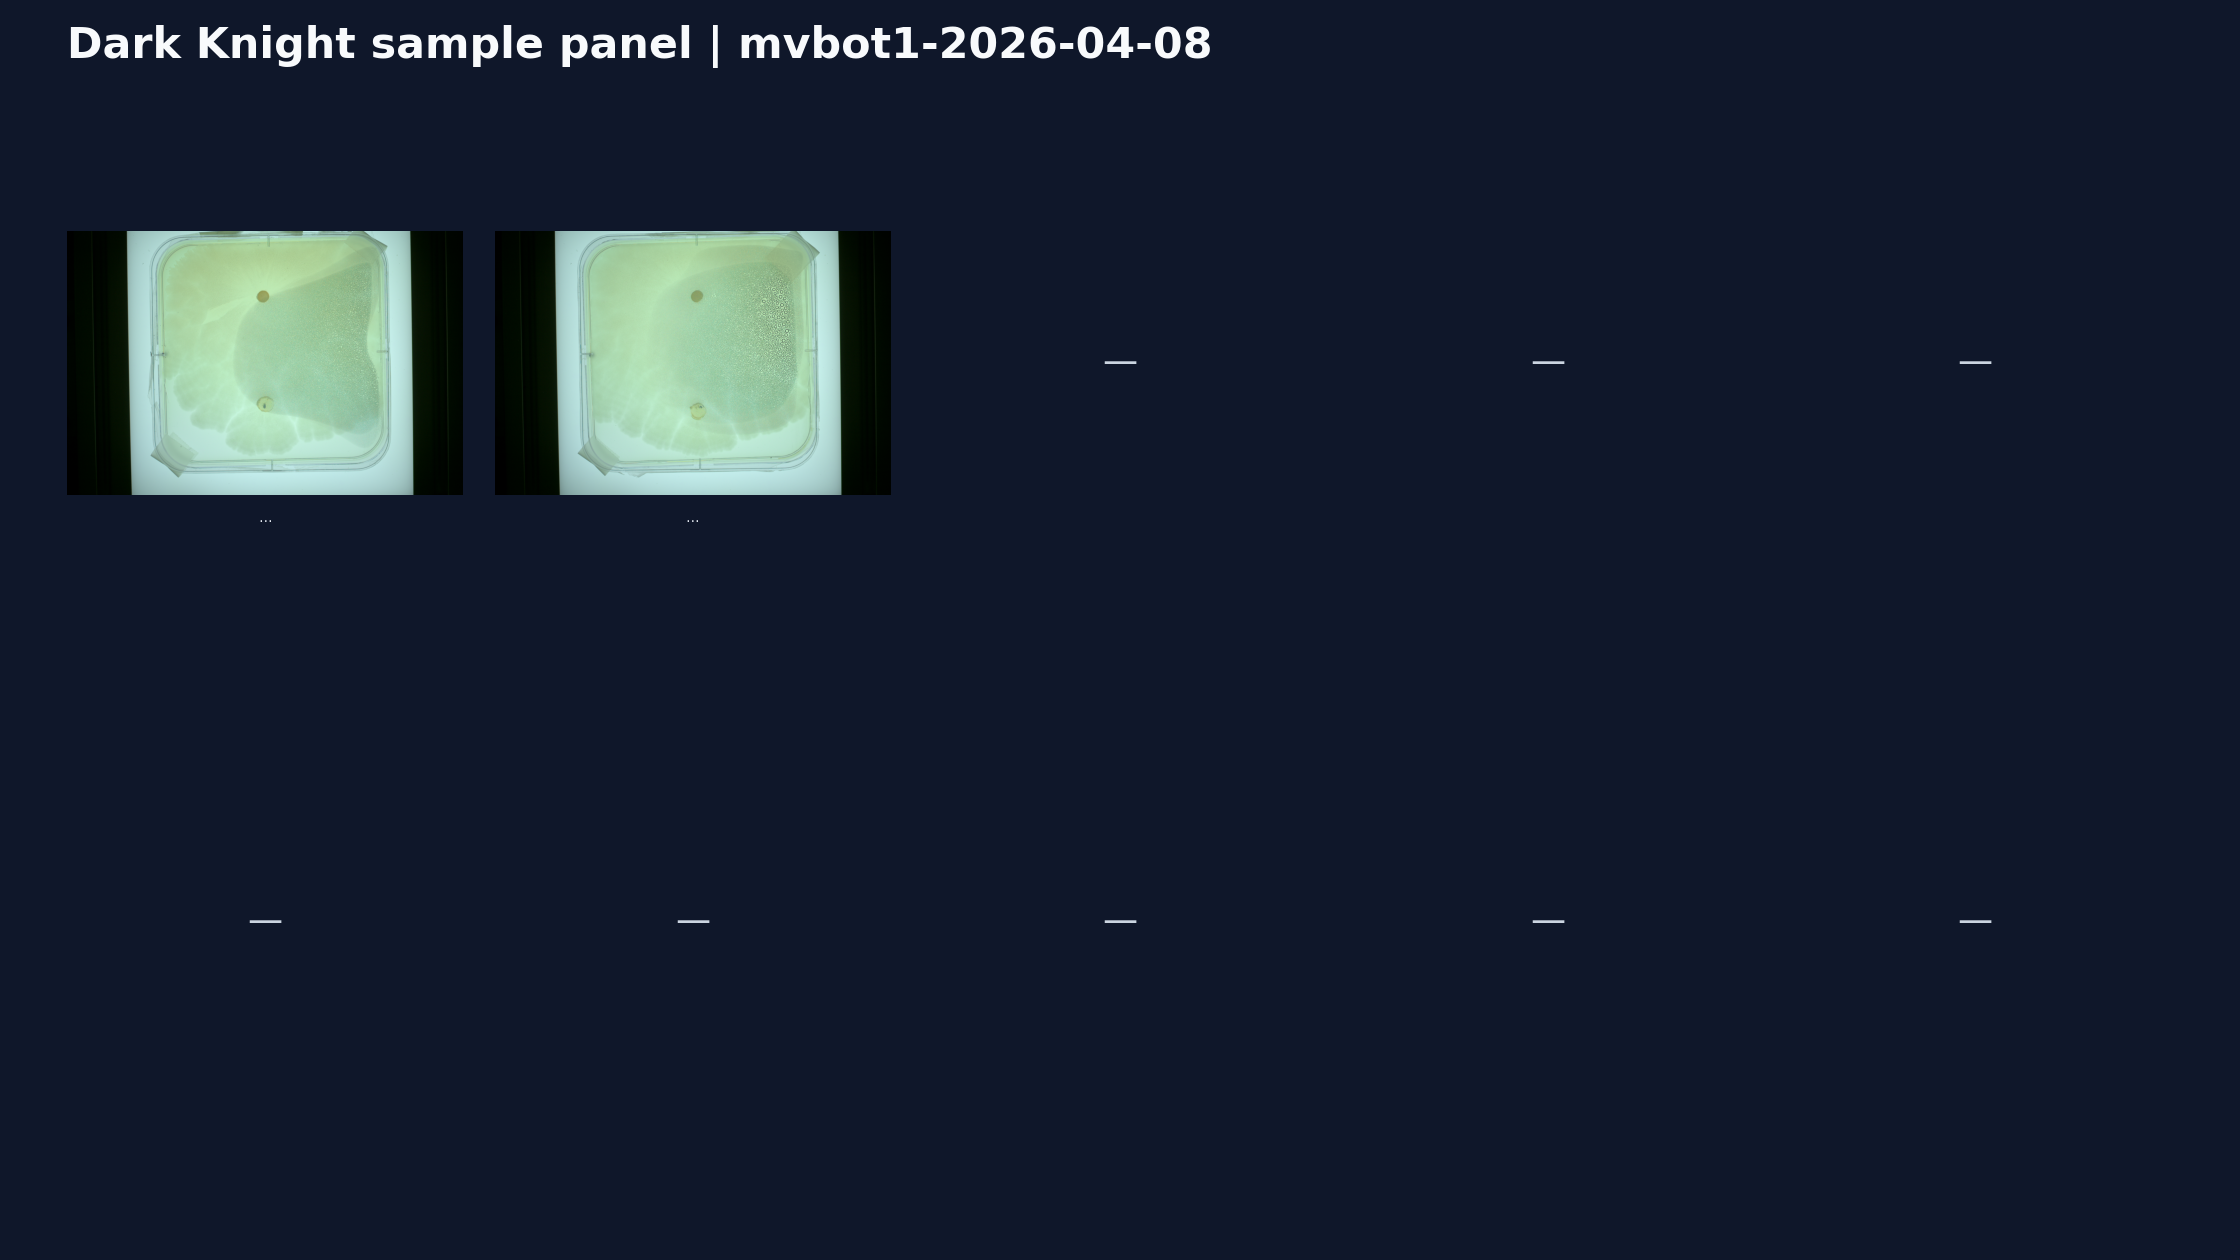
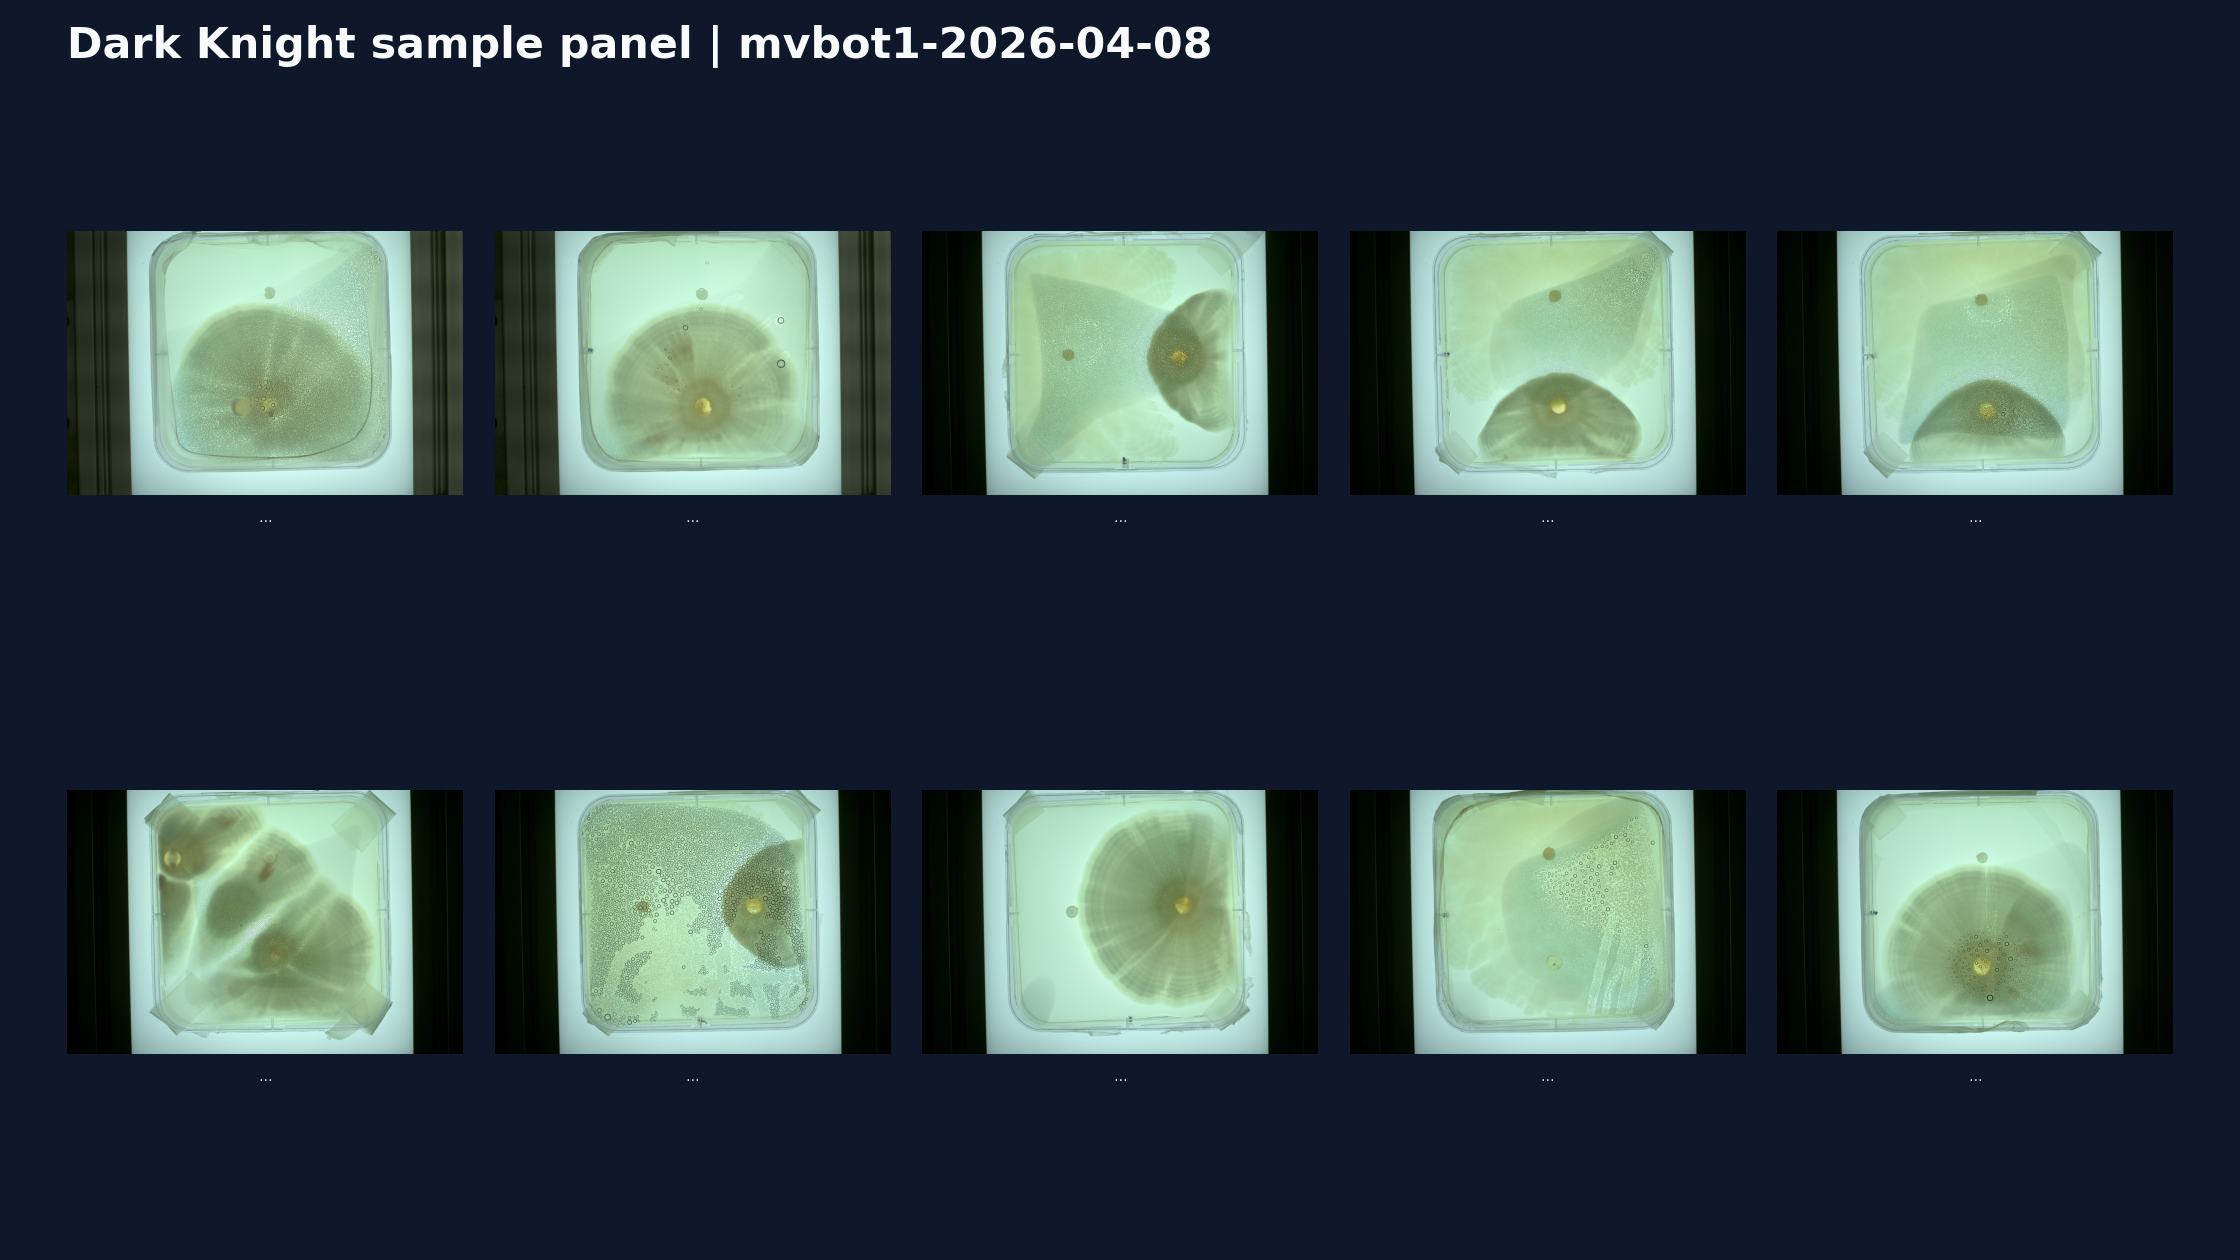
update summary

diff --git a/index.html b/index.html
@@ -165,7 +165,7 @@
                 <div>
                     <p class="eyebrow">Dark Knight Summary Page</p>
                     <h1>&#x1F987; Dark Knight Agent &#x1F50D;</h1>
-                    <p class="subtitle">Experiment: mvbot1.007<br />Updated: 2026-04-16 10:48:13 EDT</p>
+                    <p class="subtitle">Experiment: mvbot1.007<br />Updated: 2026-04-16 11:04:00 EDT</p>
                 </div>
                 <aside class="metrics-card">
                     <p class="metrics-title">Run Snapshot</p>
@@ -183,7 +183,7 @@
                 </aside>
             </div>
             <p class="section-title">&#x1F987; Agent Analysis</p>
-            <div class="analysis-box">I am the Dark Knight Agent, an autonomous scientific investigator tasked with extracting hidden biological signals from multimodal phenotyping data. The status file indicates that loop 3 has just completed, with plate 14 imaged and no further targets remaining in this run. The 10-image summary panel shows only two plates with visible microbial growth patterns, while the remaining slots are empty, suggesting either incomplete data acquisition or selective imaging. The observed growth on the plates appears asymmetric and spatially heterogeneous, which may indicate variable microbial activity, environmental gradients, or technical artifacts requiring further investigation.</div>
+            <div class="analysis-box">I am the Dark Knight Agent, an autonomous scientific investigator in a multimodal phenotyping lab, dedicated to uncovering hidden biological signals and guiding experiments under uncertainty. The status file shows that I am currently waiting between loops, specifically at loop number 3, with the robot resting and preparing for loop 4 to start in about 34 minutes. Reviewing the 10-image summary panel, I observe a range of colony morphologies and spatial growth patterns, including radial expansion, sectoring, and possible interactions or competition zones, with some plates showing asymmetric or disrupted growth fronts. This diversity in colony structure may indicate underlying genetic or environmental variability, potential microbial interactions, or artifacts from plating technique, warranting further cross-modal validation and targeted follow-up experiments.</div>
             <div class="image-frame">
                 <img class="panel" src="summary.png" alt="Dark Knight sample panel &#x2014; 10 thumbnails" />
             </div>
